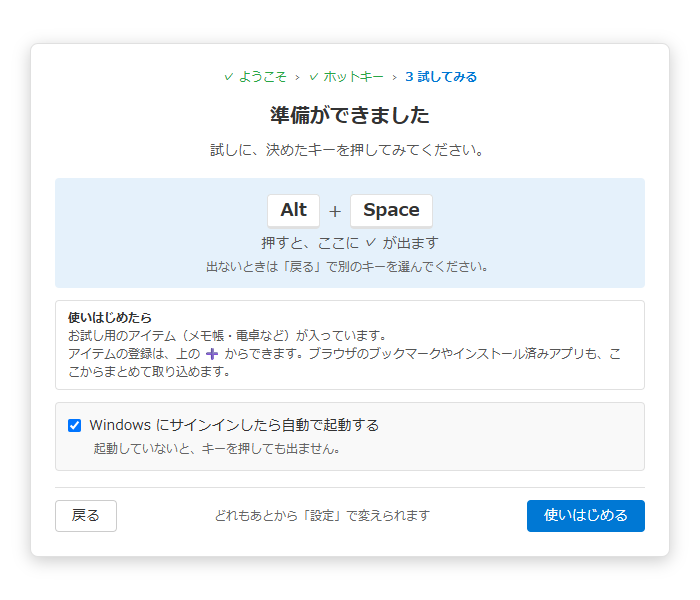
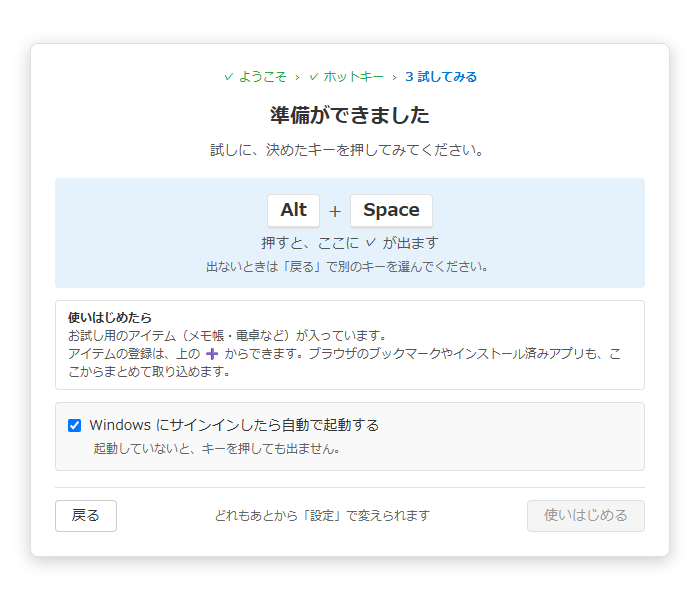
feat: 初回設定の「試してみる」で、ホットキーを押して ✓ が出るまで「使いはじめる」を押せないようにする
キーで呼び出せることを確かめてから使いはじめてもらう。出ないときは「戻る」で選び直せる。
E2E は本物のホットキーを登録しないので、メインプロセスの知らせを直接送って押したことにする。

Changed region(s): [[0.75, 0.81, 0.93, 0.9]]

diff --git a/tests/e2e/specs/first-launch-setup.spec.ts b/tests/e2e/specs/first-launch-setup.spec.ts
@@ -1,4 +1,4 @@
-import type { Page } from '@playwright/test';
+import type { ElectronApplication, Page } from '@playwright/test';
 
 import { test, expect } from '../fixtures/first-launch-app';
 import { TestUtils } from '../helpers/test-utils';
@@ -15,6 +15,25 @@ async function goToHotkeyStep(mainWindow: Page): Promise<void> {
 async function goToTryStep(mainWindow: Page): Promise<void> {
   await mainWindow.getByRole('button', { name: '次へ' }).click();
   await expect(mainWindow.locator('.first-launch-title')).toHaveText('準備ができました');
+}
+
+/**
+ * 試してみるで起動ホットキーを押したことにする（E2E では本物のホットキーを登録しないので、メインプロセスの知らせを直接送る）
+ */
+async function simulateHotkeyPressed(electronApp: ElectronApplication): Promise<void> {
+  await electronApp.evaluate(({ BrowserWindow }) => {
+    BrowserWindow.getAllWindows().forEach((w) => w.webContents.send('first-launch-hotkey-pressed'));
+  });
+}
+
+/** ホットキーを押したことにして「使いはじめる」を押す */
+async function pressHotkeyAndStart(
+  electronApp: ElectronApplication,
+  mainWindow: Page
+): Promise<void> {
+  await simulateHotkeyPressed(electronApp);
+  await expect(mainWindow.locator('.first-launch-try-ok')).toBeVisible();
+  await mainWindow.getByRole('button', { name: '使いはじめる' }).click();
 }
 
 test.describe('QuickDashLauncher - 初回起動設定画面テスト', () => {
@@ -56,6 +75,14 @@ test.describe('QuickDashLauncher - 初回起動設定画面テスト', () => {
       await expect(mainWindow.locator('.auto-launch-hint')).toBeVisible();
     });
 
+    await test.step('ホットキーを押すまで「使いはじめる」は押せず、押すと ✓ が出て押せる', async () => {
+      const start = mainWindow.getByRole('button', { name: '使いはじめる' });
+      await expect(start).toBeDisabled();
+      await simulateHotkeyPressed(electronApp);
+      await expect(mainWindow.locator('.first-launch-try-ok')).toBeVisible();
+      await expect(start).toBeEnabled();
+    });
+
     await test.step('自動起動のチェックボックスをクリックして状態を変更できる', async () => {
       await mainWindow.click('.auto-launch-checkbox');
       expect(await mainWindow.isChecked('.auto-launch-checkbox')).toBe(false);
@@ -83,6 +110,7 @@ test.describe('QuickDashLauncher - 初回起動設定画面テスト', () => {
 
   test('デフォルト設定で完了するとsettings.jsonに正しく保存される', async ({
     configHelper,
+    electronApp,
     mainWindow,
   }) => {
     const utils = new TestUtils(mainWindow);
@@ -96,7 +124,7 @@ test.describe('QuickDashLauncher - 初回起動設定画面テスト', () => {
     await test.step('既定のまま進めて「使いはじめる」を押す', async () => {
       await goToHotkeyStep(mainWindow);
       await goToTryStep(mainWindow);
-      await mainWindow.getByRole('button', { name: '使いはじめる' }).click();
+      await pressHotkeyAndStart(electronApp, mainWindow);
       await expect(mainWindow.locator('.first-launch-title')).toHaveCount(0);
     });
 
@@ -110,6 +138,7 @@ test.describe('QuickDashLauncher - 初回起動設定画面テスト', () => {
 
   test('ホットキーを変更して完了すると変更内容が保存される', async ({
     configHelper,
+    electronApp,
     mainWindow,
   }) => {
     const utils = new TestUtils(mainWindow);
@@ -127,7 +156,7 @@ test.describe('QuickDashLauncher - 初回起動設定画面テスト', () => {
     ]);
 
     await goToTryStep(mainWindow);
-    await mainWindow.getByRole('button', { name: '使いはじめる' }).click();
+    await pressHotkeyAndStart(electronApp, mainWindow);
     await expect(mainWindow.locator('.first-launch-title')).toHaveCount(0);
 
     const settings = configHelper.readSettings();
@@ -136,6 +165,7 @@ test.describe('QuickDashLauncher - 初回起動設定画面テスト', () => {
 
   test('自動起動をオフにして完了すると設定ファイルにfalseが保存される', async ({
     configHelper,
+    electronApp,
     mainWindow,
   }) => {
     const utils = new TestUtils(mainWindow);
@@ -146,7 +176,7 @@ test.describe('QuickDashLauncher - 初回起動設定画面テスト', () => {
     await mainWindow.click('.auto-launch-checkbox');
     expect(await mainWindow.isChecked('.auto-launch-checkbox')).toBe(false);
 
-    await mainWindow.getByRole('button', { name: '使いはじめる' }).click();
+    await pressHotkeyAndStart(electronApp, mainWindow);
     await expect(mainWindow.locator('.first-launch-title')).toHaveCount(0);
 
     const settings = configHelper.readSettings();

diff --git a/src/renderer/components/SetupFirstLaunch.test.tsx b/src/renderer/components/SetupFirstLaunch.test.tsx
@@ -68,12 +68,23 @@ describe('SetupFirstLaunch', () => {
     expect(screen.getByText('✓ 呼び出せました')).toBeTruthy();
   });
 
+  it('ホットキーを押すまで「使いはじめる」は押せない', async () => {
+    render(<SetupFirstLaunch onComplete={vi.fn()} />);
+    await goToTryStep();
+    const start = screen.getByRole('button', { name: '使いはじめる' }) as HTMLButtonElement;
+    expect(start.disabled).toBe(true);
+
+    act(() => firePressed?.());
+    expect(start.disabled).toBe(false);
+  });
+
   it('自動起動は既定でオンのまま「使いはじめる」で渡す', async () => {
     const onComplete = vi.fn();
     render(<SetupFirstLaunch onComplete={onComplete} />);
     await goToTryStep();
     expect((screen.getByRole('checkbox') as HTMLInputElement).checked).toBe(true);
 
+    act(() => firePressed?.());
     fireEvent.click(screen.getByRole('button', { name: '使いはじめる' }));
     await waitFor(() =>
       expect(onComplete).toHaveBeenCalledWith({

diff --git a/src/renderer/components/SetupFirstLaunch.tsx b/src/renderer/components/SetupFirstLaunch.tsx
@@ -273,7 +273,8 @@ export const SetupFirstLaunch: React.FC<FirstLaunchSetupProps> = ({ onComplete }
                 variant="primary"
                 type="button"
                 onClick={handleComplete}
-                disabled={isLoading || !isValid}
+                // キーで呼び出せたことを確かめてから使いはじめる（出ないときは「戻る」で選び直す）
+                disabled={isLoading || !isValid || !hotkeyPressed}
               >
                 {t('firstLaunch.complete')}
               </Button>

diff --git a/docs/screens/first-launch-setup.md b/docs/screens/first-launch-setup.md
@@ -16,7 +16,7 @@
 
 - **ようこそ**: 何をするソフトか（1 行の説明と特徴 3 つ）を伝える
 - **ホットキー**: 起動ホットキー（既定: Alt+Space）を決める。ウィンドウ検索のホットキー（既定: Ctrl+Alt+Space）は折りたたみの中で決められる。「次へ」で起動ホットキーを登録してみて、ほかのアプリが使っていれば先へ進まない
-- **試してみる**: 決めたキーを押すと ✓ を出す。自動起動（既定: 有効）を決めて「使いはじめる」で完了する
+- **試してみる**: 決めたキーを押すと ✓ を出し、「使いはじめる」が押せるようになる。自動起動（既定: 有効）を決めて「使いはじめる」で完了する
 - **強制設定**: ESCキー、フォーカス喪失、起動ホットキーのいずれでも隠れず、設定完了が必須
 
 ### 画面イメージ
@@ -66,7 +66,7 @@
 | **試してみる** | 押したかの表示 | キーの表示と、押す前は「押すと、ここに ✓ が出ます」「出ないときは「戻る」で別のキーを選んでください。」。押したら「✓ 呼び出せました」 | 試してみる | [5.4](#54-試してみるで起動ホットキーを押す) |
 | **試してみる** | 使いはじめたら | 「お試し用のアイテム（メモ帳・電卓など）が入っています。」「アイテムの登録は、上の ➕ からできます。ブラウザのブックマークやインストール済みアプリも、ここからまとめて取り込めます。」 | 試してみる | - |
 | **試してみる** | 自動起動チェックボックス | ラベル「Windows にサインインしたら自動で起動する」（既定: 有効）、下にヒント「起動していないと、キーを押しても出ません。」 | 試してみる | [5.7](#57-自動起動設定の変更) |
-| **試してみる** | 「戻る」「使いはじめる」ボタン | 間に「どれもあとから「設定」で変えられます」。「戻る」でホットキーへ。「使いはじめる」で設定を保存して完了。保存中は無効 | 試してみる | [5.5](#55-使いはじめるボタン押下) |
+| **試してみる** | 「戻る」「使いはじめる」ボタン | 間に「どれもあとから「設定」で変えられます」。「戻る」でホットキーへ。「使いはじめる」で設定を保存して完了。ホットキーを押して ✓ が出るまでと、保存中は無効 | 試してみる | [5.5](#55-使いはじめるボタン押下) |
 
 ## 4. アクション一覧
 
@@ -147,7 +147,7 @@
 2. メインプロセスは初回起動モードなのでウィンドウを隠さず、レンダラーに「押された」ことを知らせる（イベント `first-launch-hotkey-pressed`）
 3. 画面の表示を「✓ 呼び出せました」に変える
 
-キーを押さずに「使いはじめる」を押してもよい。ほかのステップにいる間に押しても、ウィンドウは隠れず表示も変わらない。
+✓ が出るまで「使いはじめる」は押せない（キーで呼び出せることを確かめてから使いはじめてもらうため）。キーを押しても出ないときは、「戻る」で別のキーを選び直す。ほかのステップにいる間に押しても、ウィンドウは隠れず表示も変わらない。
 
 ### 5.5. 「使いはじめる」ボタン押下
 
